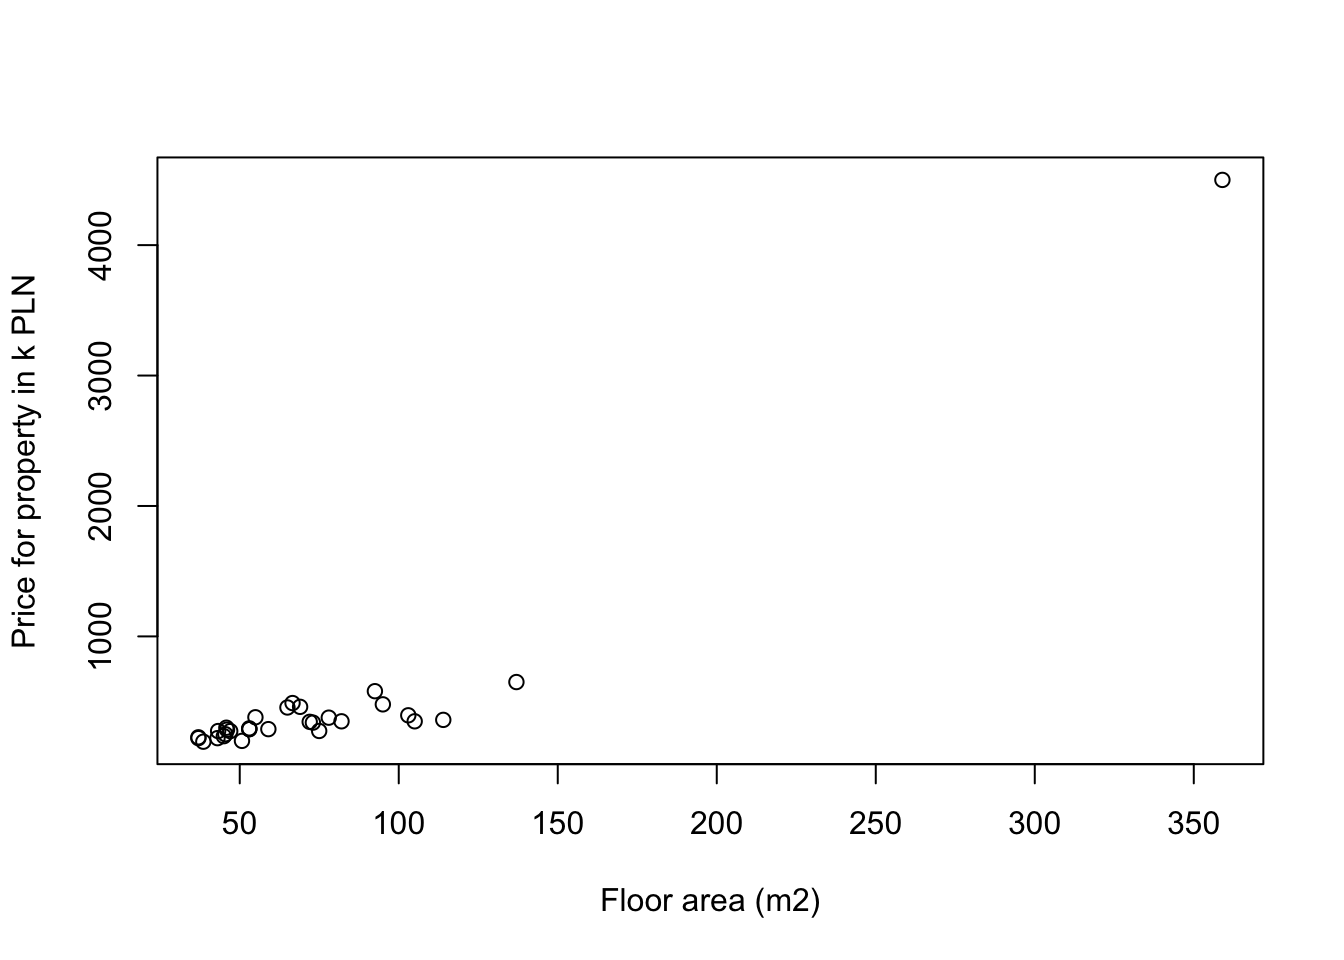
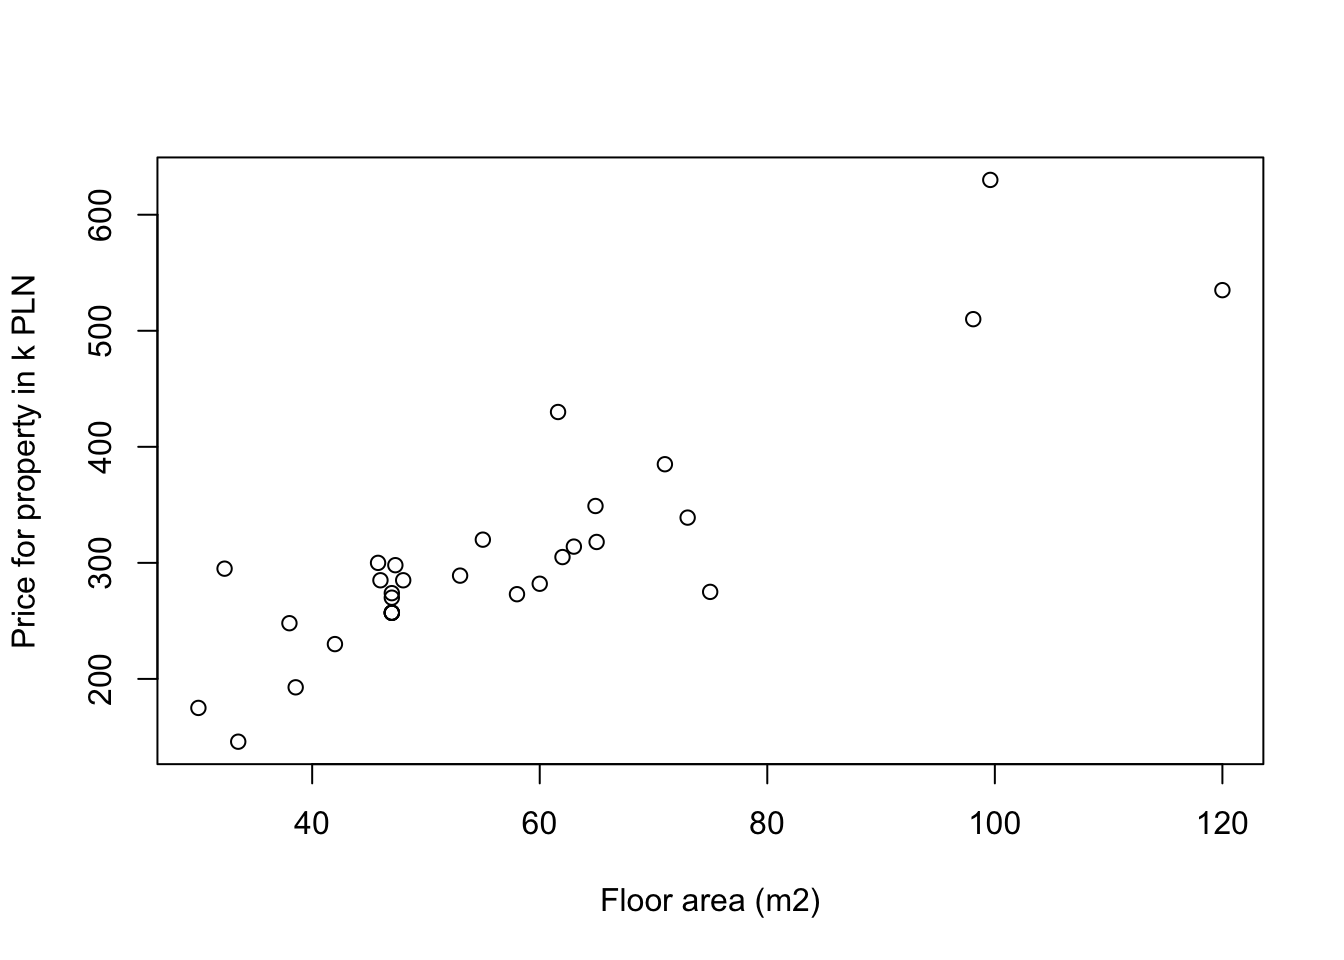
book on webscrapping

diff --git a/_book/internet-data-sources.html b/_book/internet-data-sources.html
@@ -26,7 +26,7 @@
 <meta name="author" content="Maciej Beręsewicz">
 
 
-<meta name="date" content="2017-03-11">
+<meta name="date" content="2017-03-14">
 
   <meta name="viewport" content="width=device-width, initial-scale=1">
   <meta name="apple-mobile-web-app-capable" content="yes">
@@ -201,8 +201,8 @@ Figure 4.5: Morizon
 <div class="sourceCode"><pre class="sourceCode r"><code class="sourceCode r">flag &lt;-<span class="st"> </span><span class="kw">stri_detect</span>(<span class="dt">str =</span> scripts, <span class="dt">fixed =</span> <span class="st">&#39;newDate.setMonth&#39;</span>)
 flag</code></pre></div>
 <pre><code>##  [1] FALSE FALSE FALSE FALSE FALSE FALSE FALSE FALSE FALSE FALSE FALSE
-## [12] FALSE FALSE FALSE FALSE  TRUE  TRUE  TRUE  TRUE  TRUE FALSE FALSE
-## [23] FALSE FALSE FALSE</code></pre>
+## [12] FALSE FALSE FALSE  TRUE  TRUE  TRUE  TRUE  TRUE FALSE FALSE FALSE
+## [23] FALSE</code></pre>
 <div class="sourceCode"><pre class="sourceCode r"><code class="sourceCode r">selected &lt;-<span class="st"> </span>scripts[flag]
 
 <span class="kw">length</span>(selected)</code></pre></div>
@@ -280,8 +280,8 @@ offer_title &lt;-<span class="st"> </span>offers %&gt;%<span class="st"> </span>
 ## [2] &quot;PROMOCJA! 275.000 zł za 75 m², 4 pokoje, taras.&quot;   
 ## [3] &quot;Funkcjonalne Kominek, Ogródek, Osiedle Zamknięte !&quot;
 ## [4] &quot;Mieszkanie 39 m2 za 192 750 zł! Parking w cenie!!!&quot;
-## [5] &quot;Mieszkanie Poznań Żegrze blok 4- piętrowy od zaraz&quot;
-## [6] &quot;Mieszkanie, 37 m², Poznań - Rataje, BEZPOŚREDNIO&quot;</code></pre>
+## [5] &quot;2 pokoje, Poznań ul. Czysta wyposażone do wprowadz&quot;
+## [6] &quot;Mieszkanie, 71 m², Poznań&quot;</code></pre>
 <div class="sourceCode"><pre class="sourceCode r"><code class="sourceCode r">offer_total_price &lt;-<span class="st"> </span>offers %&gt;%<span class="st"> </span>
 <span class="st">  </span><span class="kw">html_nodes</span>(<span class="st">&#39;li.offer-item-price&#39;</span>) %&gt;%
 <span class="st">  </span><span class="kw">html_text</span>() %&gt;%
@@ -291,7 +291,7 @@ offer_title &lt;-<span class="st"> </span>offers %&gt;%<span class="st"> </span>
 <span class="st">  </span><span class="kw">as.numeric</span>()
 
 <span class="kw">head</span>(offer_total_price)</code></pre></div>
-<pre><code>## [1] 300000 275000 339000 192750 289000 220000</code></pre>
+<pre><code>## [1] 300000 275000 339000 192750 257000 385000</code></pre>
 <div class="sourceCode"><pre class="sourceCode r"><code class="sourceCode r">offer_floor_area &lt;-<span class="st"> </span>offers %&gt;%<span class="st"> </span>
 <span class="st">  </span><span class="kw">html_nodes</span>(<span class="st">&#39;li.hidden-xs.offer-item-area&#39;</span>) %&gt;%
 <span class="st">  </span><span class="kw">html_text</span>() %&gt;%
@@ -301,7 +301,7 @@ offer_title &lt;-<span class="st"> </span>offers %&gt;%<span class="st"> </span>
 <span class="st">  </span><span class="kw">as.numeric</span>()
 
 <span class="kw">head</span>(offer_floor_area)</code></pre></div>
-<pre><code>## [1] 45.79 74.98 73.00 38.55 53.00 37.00</code></pre>
+<pre><code>## [1] 45.79 74.98 73.00 38.55 47.00 71.00</code></pre>
 <div class="sourceCode"><pre class="sourceCode r"><code class="sourceCode r"><span class="kw">plot</span>(<span class="dt">x =</span> offer_floor_area,
      <span class="dt">y =</span> offer_total_price/<span class="dv">1000</span>,
      <span class="dt">xlab =</span> <span class="st">&#39;Floor area (m2)&#39;</span>,

diff --git a/_book/data-sources.html b/_book/data-sources.html
@@ -26,7 +26,7 @@
 <meta name="author" content="Maciej Beręsewicz">
 
 
-<meta name="date" content="2017-03-11">
+<meta name="date" content="2017-03-14">
 
   <meta name="viewport" content="width=device-width, initial-scale=1">
   <meta name="apple-mobile-web-app-capable" content="yes">
@@ -315,7 +315,7 @@ d</code></pre></div>
 ##  $ GEO_COVERAGE   :&#39;data.frame&#39;: 3 obs. of  2 variables:
 ##  $ MEASURE        :&#39;data.frame&#39;: 3 obs. of  2 variables:
 ##  $ FREQUENCY      :&#39;data.frame&#39;: 3 obs. of  2 variables:
-##  $ TIME           :&#39;data.frame&#39;: 973 obs. of  2 variables:
+##  $ TIME           :&#39;data.frame&#39;: 974 obs. of  2 variables:
 ##  $ OBS_STATUS     :&#39;data.frame&#39;: 14 obs. of  2 variables:
 ##  $ UNIT           :&#39;data.frame&#39;: 304 obs. of  2 variables:
 ##  $ POWERCODE      :&#39;data.frame&#39;: 32 obs. of  2 variables:

diff --git a/_book/index.html b/_book/index.html
@@ -26,7 +26,7 @@
 <meta name="author" content="Maciej Beręsewicz">
 
 
-<meta name="date" content="2017-03-11">
+<meta name="date" content="2017-03-14">
 
   <meta name="viewport" content="width=device-width, initial-scale=1">
   <meta name="apple-mobile-web-app-capable" content="yes">
@@ -156,7 +156,7 @@ code > span.in { color: #60a0b0; font-weight: bold; font-style: italic; } /* Inf
 <div id="header">
 <h1 class="title">Real Estate Market Analysis</h1>
 <h4 class="author"><em>Maciej Beręsewicz</em></h4>
-<h4 class="date"><em>2017-03-11</em></h4>
+<h4 class="date"><em>2017-03-14</em></h4>
 </div>
 <div id="prerequisites" class="section level1">
 <h1><span class="header-section-number">Chapter 1</span> Prerequisites</h1>

diff --git a/_book/characteristics-of-real-estate-market-in-poland-and-europe.html b/_book/characteristics-of-real-estate-market-in-poland-and-europe.html
@@ -26,7 +26,7 @@
 <meta name="author" content="Maciej Beręsewicz">
 
 
-<meta name="date" content="2017-03-11">
+<meta name="date" content="2017-03-14">
 
   <meta name="viewport" content="width=device-width, initial-scale=1">
   <meta name="apple-mobile-web-app-capable" content="yes">

diff --git a/_book/data-cleaning-techniques-and-outliers-detection.html b/_book/data-cleaning-techniques-and-outliers-detection.html
@@ -26,7 +26,7 @@
 <meta name="author" content="Maciej Beręsewicz">
 
 
-<meta name="date" content="2017-03-11">
+<meta name="date" content="2017-03-14">
 
   <meta name="viewport" content="width=device-width, initial-scale=1">
   <meta name="apple-mobile-web-app-capable" content="yes">

diff --git a/_book/descriptives-statistics-as-basic-method-of-analysis-of-real-estate-market.html b/_book/descriptives-statistics-as-basic-method-of-analysis-of-real-estate-market.html
@@ -26,7 +26,7 @@
 <meta name="author" content="Maciej Beręsewicz">
 
 
-<meta name="date" content="2017-03-11">
+<meta name="date" content="2017-03-14">
 
   <meta name="viewport" content="width=device-width, initial-scale=1">
   <meta name="apple-mobile-web-app-capable" content="yes">

diff --git a/_book/forecasting.html b/_book/forecasting.html
@@ -26,7 +26,7 @@
 <meta name="author" content="Maciej Beręsewicz">
 
 
-<meta name="date" content="2017-03-11">
+<meta name="date" content="2017-03-14">
 
   <meta name="viewport" content="width=device-width, initial-scale=1">
   <meta name="apple-mobile-web-app-capable" content="yes">

diff --git a/_book/gis-tools.html b/_book/gis-tools.html
@@ -26,7 +26,7 @@
 <meta name="author" content="Maciej Beręsewicz">
 
 
-<meta name="date" content="2017-03-11">
+<meta name="date" content="2017-03-14">
 
   <meta name="viewport" content="width=device-width, initial-scale=1">
   <meta name="apple-mobile-web-app-capable" content="yes">

diff --git a/_book/indices.html b/_book/indices.html
@@ -26,7 +26,7 @@
 <meta name="author" content="Maciej Beręsewicz">
 
 
-<meta name="date" content="2017-03-11">
+<meta name="date" content="2017-03-14">
 
   <meta name="viewport" content="width=device-width, initial-scale=1">
   <meta name="apple-mobile-web-app-capable" content="yes">

diff --git a/_book/intro.html b/_book/intro.html
@@ -26,7 +26,7 @@
 <meta name="author" content="Maciej Beręsewicz">
 
 
-<meta name="date" content="2017-03-11">
+<meta name="date" content="2017-03-14">
 
   <meta name="viewport" content="width=device-width, initial-scale=1">
   <meta name="apple-mobile-web-app-capable" content="yes">

diff --git a/_book/references.html b/_book/references.html
@@ -26,7 +26,7 @@
 <meta name="author" content="Maciej Beręsewicz">
 
 
-<meta name="date" content="2017-03-11">
+<meta name="date" content="2017-03-14">
 
   <meta name="viewport" content="width=device-width, initial-scale=1">
   <meta name="apple-mobile-web-app-capable" content="yes">

diff --git a/_book/regression.html b/_book/regression.html
@@ -26,7 +26,7 @@
 <meta name="author" content="Maciej Beręsewicz">
 
 
-<meta name="date" content="2017-03-11">
+<meta name="date" content="2017-03-14">
 
   <meta name="viewport" content="width=device-width, initial-scale=1">
   <meta name="apple-mobile-web-app-capable" content="yes">
